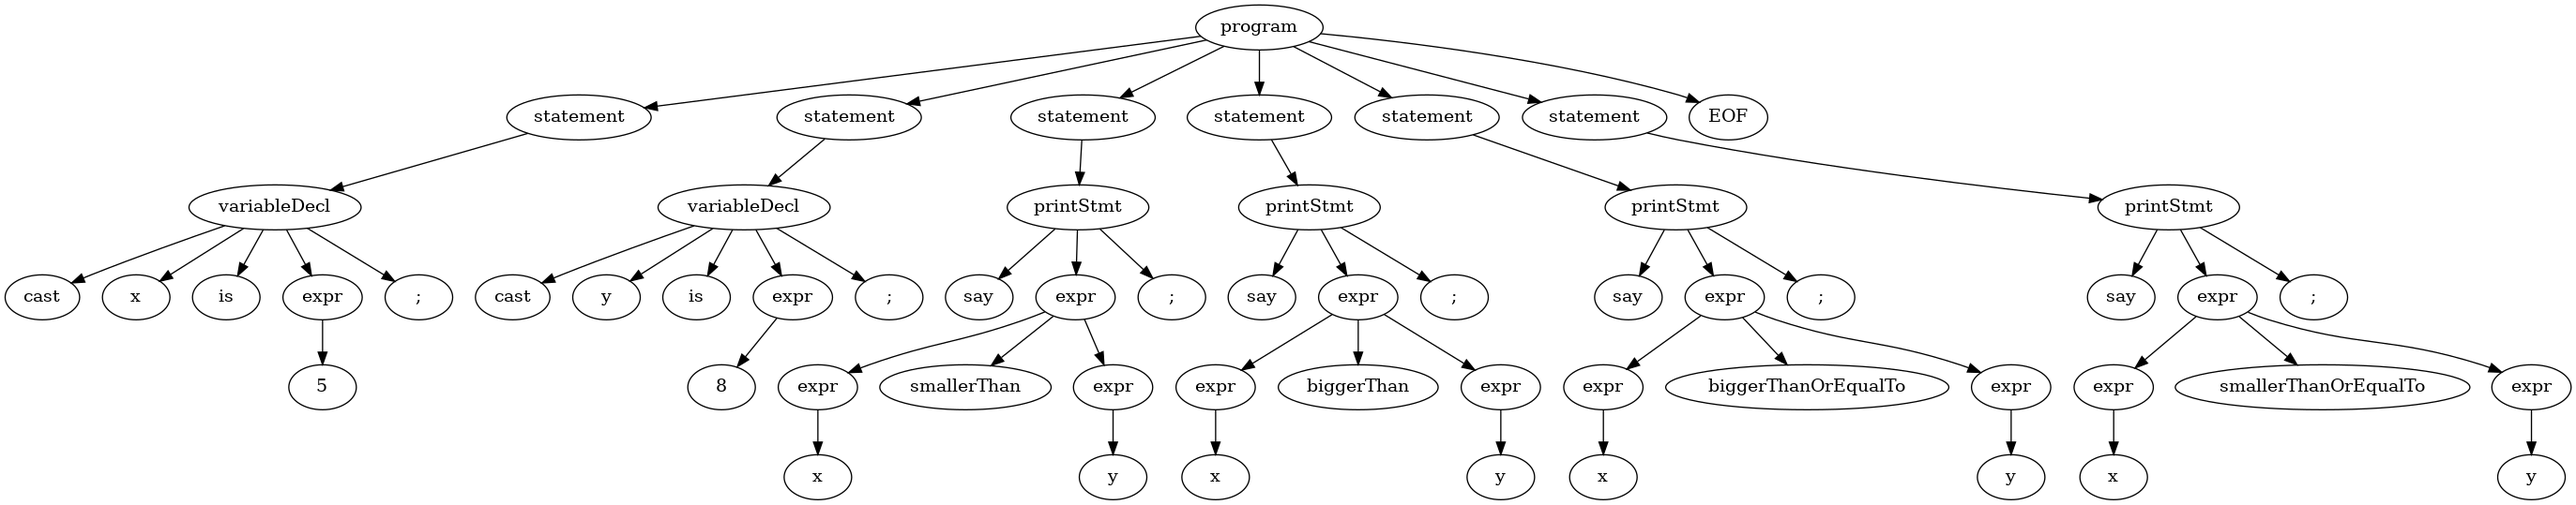
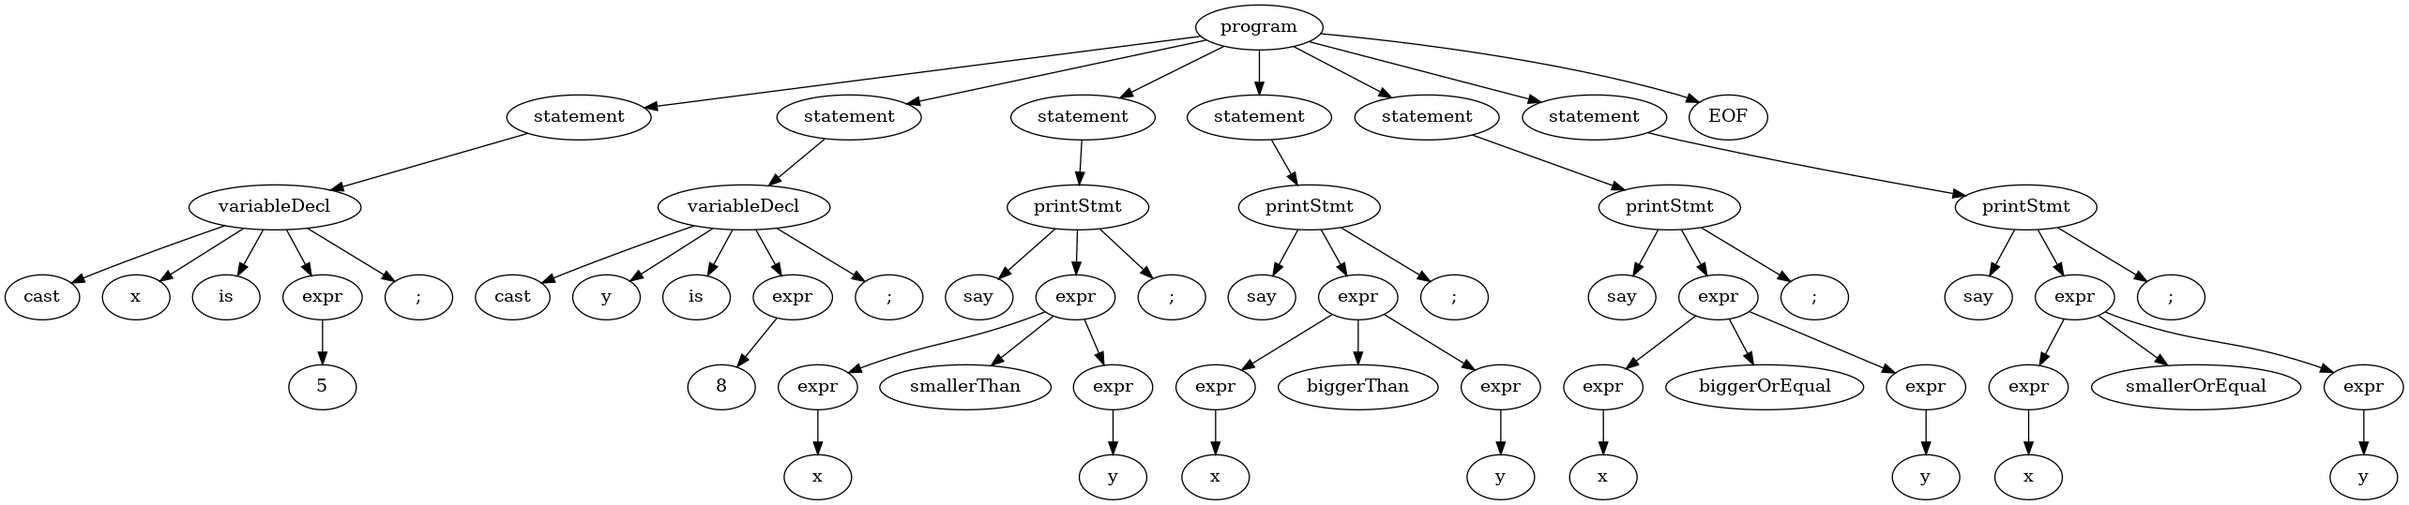
Syntax updated

diff --git a/src/mlangLexer.py b/src/mlangLexer.py
@@ -10,7 +10,7 @@ else:
 
 def serializedATN():
     return [
-        4,0,19,173,6,-1,2,0,7,0,2,1,7,1,2,2,7,2,2,3,7,3,2,4,7,4,2,5,7,5,
+        4,0,19,161,6,-1,2,0,7,0,2,1,7,1,2,2,7,2,2,3,7,3,2,4,7,4,2,5,7,5,
         2,6,7,6,2,7,7,7,2,8,7,8,2,9,7,9,2,10,7,10,2,11,7,11,2,12,7,12,2,
         13,7,13,2,14,7,14,2,15,7,15,2,16,7,16,2,17,7,17,2,18,7,18,1,0,1,
         0,1,0,1,0,1,0,1,1,1,1,1,1,1,2,1,2,1,3,1,3,1,3,1,3,1,4,1,4,1,5,1,
@@ -18,58 +18,53 @@ def serializedATN():
         9,1,9,1,9,1,9,1,10,1,10,1,10,1,10,1,10,1,10,1,10,1,10,1,10,1,10,
         1,10,1,10,1,11,1,11,1,11,1,11,1,11,1,11,1,11,1,11,1,11,1,11,1,11,
         1,12,1,12,1,12,1,12,1,12,1,12,1,12,1,12,1,12,1,12,1,12,1,12,1,12,
-        1,12,1,12,1,12,1,12,1,12,1,12,1,12,1,13,1,13,1,13,1,13,1,13,1,13,
-        1,13,1,13,1,13,1,13,1,13,1,13,1,13,1,13,1,13,1,13,1,13,1,13,1,13,
-        1,13,1,13,1,14,1,14,1,14,1,14,1,15,1,15,1,15,1,15,1,15,1,15,1,15,
-        1,15,3,15,153,8,15,1,16,1,16,5,16,157,8,16,10,16,12,16,160,9,16,
-        1,17,4,17,163,8,17,11,17,12,17,164,1,18,4,18,168,8,18,11,18,12,18,
-        169,1,18,1,18,0,0,19,1,1,3,2,5,3,7,4,9,5,11,6,13,7,15,8,17,9,19,
-        10,21,11,23,12,25,13,27,14,29,15,31,16,33,17,35,18,37,19,1,0,4,3,
-        0,65,90,95,95,97,122,4,0,48,57,65,90,95,95,97,122,1,0,48,57,3,0,
-        9,10,13,13,32,32,176,0,1,1,0,0,0,0,3,1,0,0,0,0,5,1,0,0,0,0,7,1,0,
-        0,0,0,9,1,0,0,0,0,11,1,0,0,0,0,13,1,0,0,0,0,15,1,0,0,0,0,17,1,0,
-        0,0,0,19,1,0,0,0,0,21,1,0,0,0,0,23,1,0,0,0,0,25,1,0,0,0,0,27,1,0,
-        0,0,0,29,1,0,0,0,0,31,1,0,0,0,0,33,1,0,0,0,0,35,1,0,0,0,0,37,1,0,
-        0,0,1,39,1,0,0,0,3,44,1,0,0,0,5,47,1,0,0,0,7,49,1,0,0,0,9,53,1,0,
-        0,0,11,55,1,0,0,0,13,57,1,0,0,0,15,59,1,0,0,0,17,61,1,0,0,0,19,69,
-        1,0,0,0,21,76,1,0,0,0,23,88,1,0,0,0,25,99,1,0,0,0,27,119,1,0,0,0,
-        29,140,1,0,0,0,31,152,1,0,0,0,33,154,1,0,0,0,35,162,1,0,0,0,37,167,
-        1,0,0,0,39,40,5,99,0,0,40,41,5,97,0,0,41,42,5,115,0,0,42,43,5,116,
-        0,0,43,2,1,0,0,0,44,45,5,105,0,0,45,46,5,115,0,0,46,4,1,0,0,0,47,
-        48,5,59,0,0,48,6,1,0,0,0,49,50,5,115,0,0,50,51,5,97,0,0,51,52,5,
-        121,0,0,52,8,1,0,0,0,53,54,5,42,0,0,54,10,1,0,0,0,55,56,5,47,0,0,
-        56,12,1,0,0,0,57,58,5,43,0,0,58,14,1,0,0,0,59,60,5,45,0,0,60,16,
-        1,0,0,0,61,62,5,97,0,0,62,63,5,110,0,0,63,64,5,100,0,0,64,65,5,65,
-        0,0,65,66,5,108,0,0,66,67,5,115,0,0,67,68,5,111,0,0,68,18,1,0,0,
-        0,69,70,5,111,0,0,70,71,5,114,0,0,71,72,5,69,0,0,72,73,5,108,0,0,
-        73,74,5,115,0,0,74,75,5,101,0,0,75,20,1,0,0,0,76,77,5,115,0,0,77,
-        78,5,109,0,0,78,79,5,97,0,0,79,80,5,108,0,0,80,81,5,108,0,0,81,82,
-        5,101,0,0,82,83,5,114,0,0,83,84,5,84,0,0,84,85,5,104,0,0,85,86,5,
-        97,0,0,86,87,5,110,0,0,87,22,1,0,0,0,88,89,5,98,0,0,89,90,5,105,
-        0,0,90,91,5,103,0,0,91,92,5,103,0,0,92,93,5,101,0,0,93,94,5,114,
-        0,0,94,95,5,84,0,0,95,96,5,104,0,0,96,97,5,97,0,0,97,98,5,110,0,
-        0,98,24,1,0,0,0,99,100,5,98,0,0,100,101,5,105,0,0,101,102,5,103,
+        1,12,1,13,1,13,1,13,1,13,1,13,1,13,1,13,1,13,1,13,1,13,1,13,1,13,
+        1,13,1,13,1,13,1,14,1,14,1,14,1,14,1,15,1,15,1,15,1,15,1,15,1,15,
+        1,15,1,15,3,15,141,8,15,1,16,1,16,5,16,145,8,16,10,16,12,16,148,
+        9,16,1,17,4,17,151,8,17,11,17,12,17,152,1,18,4,18,156,8,18,11,18,
+        12,18,157,1,18,1,18,0,0,19,1,1,3,2,5,3,7,4,9,5,11,6,13,7,15,8,17,
+        9,19,10,21,11,23,12,25,13,27,14,29,15,31,16,33,17,35,18,37,19,1,
+        0,4,3,0,65,90,95,95,97,122,4,0,48,57,65,90,95,95,97,122,1,0,48,57,
+        3,0,9,10,13,13,32,32,164,0,1,1,0,0,0,0,3,1,0,0,0,0,5,1,0,0,0,0,7,
+        1,0,0,0,0,9,1,0,0,0,0,11,1,0,0,0,0,13,1,0,0,0,0,15,1,0,0,0,0,17,
+        1,0,0,0,0,19,1,0,0,0,0,21,1,0,0,0,0,23,1,0,0,0,0,25,1,0,0,0,0,27,
+        1,0,0,0,0,29,1,0,0,0,0,31,1,0,0,0,0,33,1,0,0,0,0,35,1,0,0,0,0,37,
+        1,0,0,0,1,39,1,0,0,0,3,44,1,0,0,0,5,47,1,0,0,0,7,49,1,0,0,0,9,53,
+        1,0,0,0,11,55,1,0,0,0,13,57,1,0,0,0,15,59,1,0,0,0,17,61,1,0,0,0,
+        19,69,1,0,0,0,21,76,1,0,0,0,23,88,1,0,0,0,25,99,1,0,0,0,27,113,1,
+        0,0,0,29,128,1,0,0,0,31,140,1,0,0,0,33,142,1,0,0,0,35,150,1,0,0,
+        0,37,155,1,0,0,0,39,40,5,99,0,0,40,41,5,97,0,0,41,42,5,115,0,0,42,
+        43,5,116,0,0,43,2,1,0,0,0,44,45,5,105,0,0,45,46,5,115,0,0,46,4,1,
+        0,0,0,47,48,5,59,0,0,48,6,1,0,0,0,49,50,5,115,0,0,50,51,5,97,0,0,
+        51,52,5,121,0,0,52,8,1,0,0,0,53,54,5,42,0,0,54,10,1,0,0,0,55,56,
+        5,47,0,0,56,12,1,0,0,0,57,58,5,43,0,0,58,14,1,0,0,0,59,60,5,45,0,
+        0,60,16,1,0,0,0,61,62,5,97,0,0,62,63,5,110,0,0,63,64,5,100,0,0,64,
+        65,5,65,0,0,65,66,5,108,0,0,66,67,5,115,0,0,67,68,5,111,0,0,68,18,
+        1,0,0,0,69,70,5,111,0,0,70,71,5,114,0,0,71,72,5,69,0,0,72,73,5,108,
+        0,0,73,74,5,115,0,0,74,75,5,101,0,0,75,20,1,0,0,0,76,77,5,115,0,
+        0,77,78,5,109,0,0,78,79,5,97,0,0,79,80,5,108,0,0,80,81,5,108,0,0,
+        81,82,5,101,0,0,82,83,5,114,0,0,83,84,5,84,0,0,84,85,5,104,0,0,85,
+        86,5,97,0,0,86,87,5,110,0,0,87,22,1,0,0,0,88,89,5,98,0,0,89,90,5,
+        105,0,0,90,91,5,103,0,0,91,92,5,103,0,0,92,93,5,101,0,0,93,94,5,
+        114,0,0,94,95,5,84,0,0,95,96,5,104,0,0,96,97,5,97,0,0,97,98,5,110,
+        0,0,98,24,1,0,0,0,99,100,5,98,0,0,100,101,5,105,0,0,101,102,5,103,
         0,0,102,103,5,103,0,0,103,104,5,101,0,0,104,105,5,114,0,0,105,106,
-        5,84,0,0,106,107,5,104,0,0,107,108,5,97,0,0,108,109,5,110,0,0,109,
-        110,5,79,0,0,110,111,5,114,0,0,111,112,5,69,0,0,112,113,5,113,0,
-        0,113,114,5,117,0,0,114,115,5,97,0,0,115,116,5,108,0,0,116,117,5,
-        84,0,0,117,118,5,111,0,0,118,26,1,0,0,0,119,120,5,115,0,0,120,121,
-        5,109,0,0,121,122,5,97,0,0,122,123,5,108,0,0,123,124,5,108,0,0,124,
-        125,5,101,0,0,125,126,5,114,0,0,126,127,5,84,0,0,127,128,5,104,0,
-        0,128,129,5,97,0,0,129,130,5,110,0,0,130,131,5,79,0,0,131,132,5,
-        114,0,0,132,133,5,69,0,0,133,134,5,113,0,0,134,135,5,117,0,0,135,
-        136,5,97,0,0,136,137,5,108,0,0,137,138,5,84,0,0,138,139,5,111,0,
-        0,139,28,1,0,0,0,140,141,5,110,0,0,141,142,5,111,0,0,142,143,5,116,
-        0,0,143,30,1,0,0,0,144,145,5,116,0,0,145,146,5,114,0,0,146,147,5,
-        117,0,0,147,148,5,116,0,0,148,153,5,104,0,0,149,150,5,108,0,0,150,
-        151,5,105,0,0,151,153,5,101,0,0,152,144,1,0,0,0,152,149,1,0,0,0,
-        153,32,1,0,0,0,154,158,7,0,0,0,155,157,7,1,0,0,156,155,1,0,0,0,157,
-        160,1,0,0,0,158,156,1,0,0,0,158,159,1,0,0,0,159,34,1,0,0,0,160,158,
-        1,0,0,0,161,163,7,2,0,0,162,161,1,0,0,0,163,164,1,0,0,0,164,162,
-        1,0,0,0,164,165,1,0,0,0,165,36,1,0,0,0,166,168,7,3,0,0,167,166,1,
-        0,0,0,168,169,1,0,0,0,169,167,1,0,0,0,169,170,1,0,0,0,170,171,1,
-        0,0,0,171,172,6,18,0,0,172,38,1,0,0,0,5,0,152,158,164,169,1,6,0,
-        0
+        5,79,0,0,106,107,5,114,0,0,107,108,5,69,0,0,108,109,5,113,0,0,109,
+        110,5,117,0,0,110,111,5,97,0,0,111,112,5,108,0,0,112,26,1,0,0,0,
+        113,114,5,115,0,0,114,115,5,109,0,0,115,116,5,97,0,0,116,117,5,108,
+        0,0,117,118,5,108,0,0,118,119,5,101,0,0,119,120,5,114,0,0,120,121,
+        5,79,0,0,121,122,5,114,0,0,122,123,5,69,0,0,123,124,5,113,0,0,124,
+        125,5,117,0,0,125,126,5,97,0,0,126,127,5,108,0,0,127,28,1,0,0,0,
+        128,129,5,110,0,0,129,130,5,111,0,0,130,131,5,116,0,0,131,30,1,0,
+        0,0,132,133,5,116,0,0,133,134,5,114,0,0,134,135,5,117,0,0,135,136,
+        5,116,0,0,136,141,5,104,0,0,137,138,5,108,0,0,138,139,5,105,0,0,
+        139,141,5,101,0,0,140,132,1,0,0,0,140,137,1,0,0,0,141,32,1,0,0,0,
+        142,146,7,0,0,0,143,145,7,1,0,0,144,143,1,0,0,0,145,148,1,0,0,0,
+        146,144,1,0,0,0,146,147,1,0,0,0,147,34,1,0,0,0,148,146,1,0,0,0,149,
+        151,7,2,0,0,150,149,1,0,0,0,151,152,1,0,0,0,152,150,1,0,0,0,152,
+        153,1,0,0,0,153,36,1,0,0,0,154,156,7,3,0,0,155,154,1,0,0,0,156,157,
+        1,0,0,0,157,155,1,0,0,0,157,158,1,0,0,0,158,159,1,0,0,0,159,160,
+        6,18,0,0,160,38,1,0,0,0,5,0,140,146,152,157,1,6,0,0
     ]
 
 class mlangLexer(Lexer):
@@ -104,8 +99,8 @@ class mlangLexer(Lexer):
 
     literalNames = [ "<INVALID>",
             "'cast'", "'is'", "';'", "'say'", "'*'", "'/'", "'+'", "'-'", 
-            "'andAlso'", "'orElse'", "'smallerThan'", "'biggerThan'", "'biggerThanOrEqualTo'", 
-            "'smallerThanOrEqualTo'", "'not'" ]
+            "'andAlso'", "'orElse'", "'smallerThan'", "'biggerThan'", "'biggerOrEqual'", 
+            "'smallerOrEqual'", "'not'" ]
 
     symbolicNames = [ "<INVALID>",
             "BOOL", "ID", "INT", "WS" ]

diff --git a/src/mlangInterpreter.py b/src/mlangInterpreter.py
@@ -41,8 +41,8 @@ class mlangInterpreter(mlangVisitor):
             if ctx.op.text == 'orElse': return left or right
             if ctx.op.text == 'smallerThan': return left < right
             if ctx.op.text == 'biggerThan': return left > right
-            if ctx.op.text == 'biggerThanOrEqualTo': return left >= right
-            if ctx.op.text == 'smallerThanOrEqualTo': return left <= right
+            if ctx.op.text == 'biggerOrEqual': return left >= right
+            if ctx.op.text == 'smallerOrEqual': return left <= right
         elif ctx.getChild(0).getText() == 'not':
             value = self.visit(ctx.expr(0))
             return not value

diff --git a/src/mlangParser.py b/src/mlangParser.py
@@ -45,7 +45,7 @@ class mlangParser ( Parser ):
 
     literalNames = [ "<INVALID>", "'cast'", "'is'", "';'", "'say'", "'*'", 
                      "'/'", "'+'", "'-'", "'andAlso'", "'orElse'", "'smallerThan'", 
-                     "'biggerThan'", "'biggerThanOrEqualTo'", "'smallerThanOrEqualTo'", 
+                     "'biggerThan'", "'biggerOrEqual'", "'smallerOrEqual'", 
                      "'not'" ]
 
     symbolicNames = [ "<INVALID>", "<INVALID>", "<INVALID>", "<INVALID>", 
